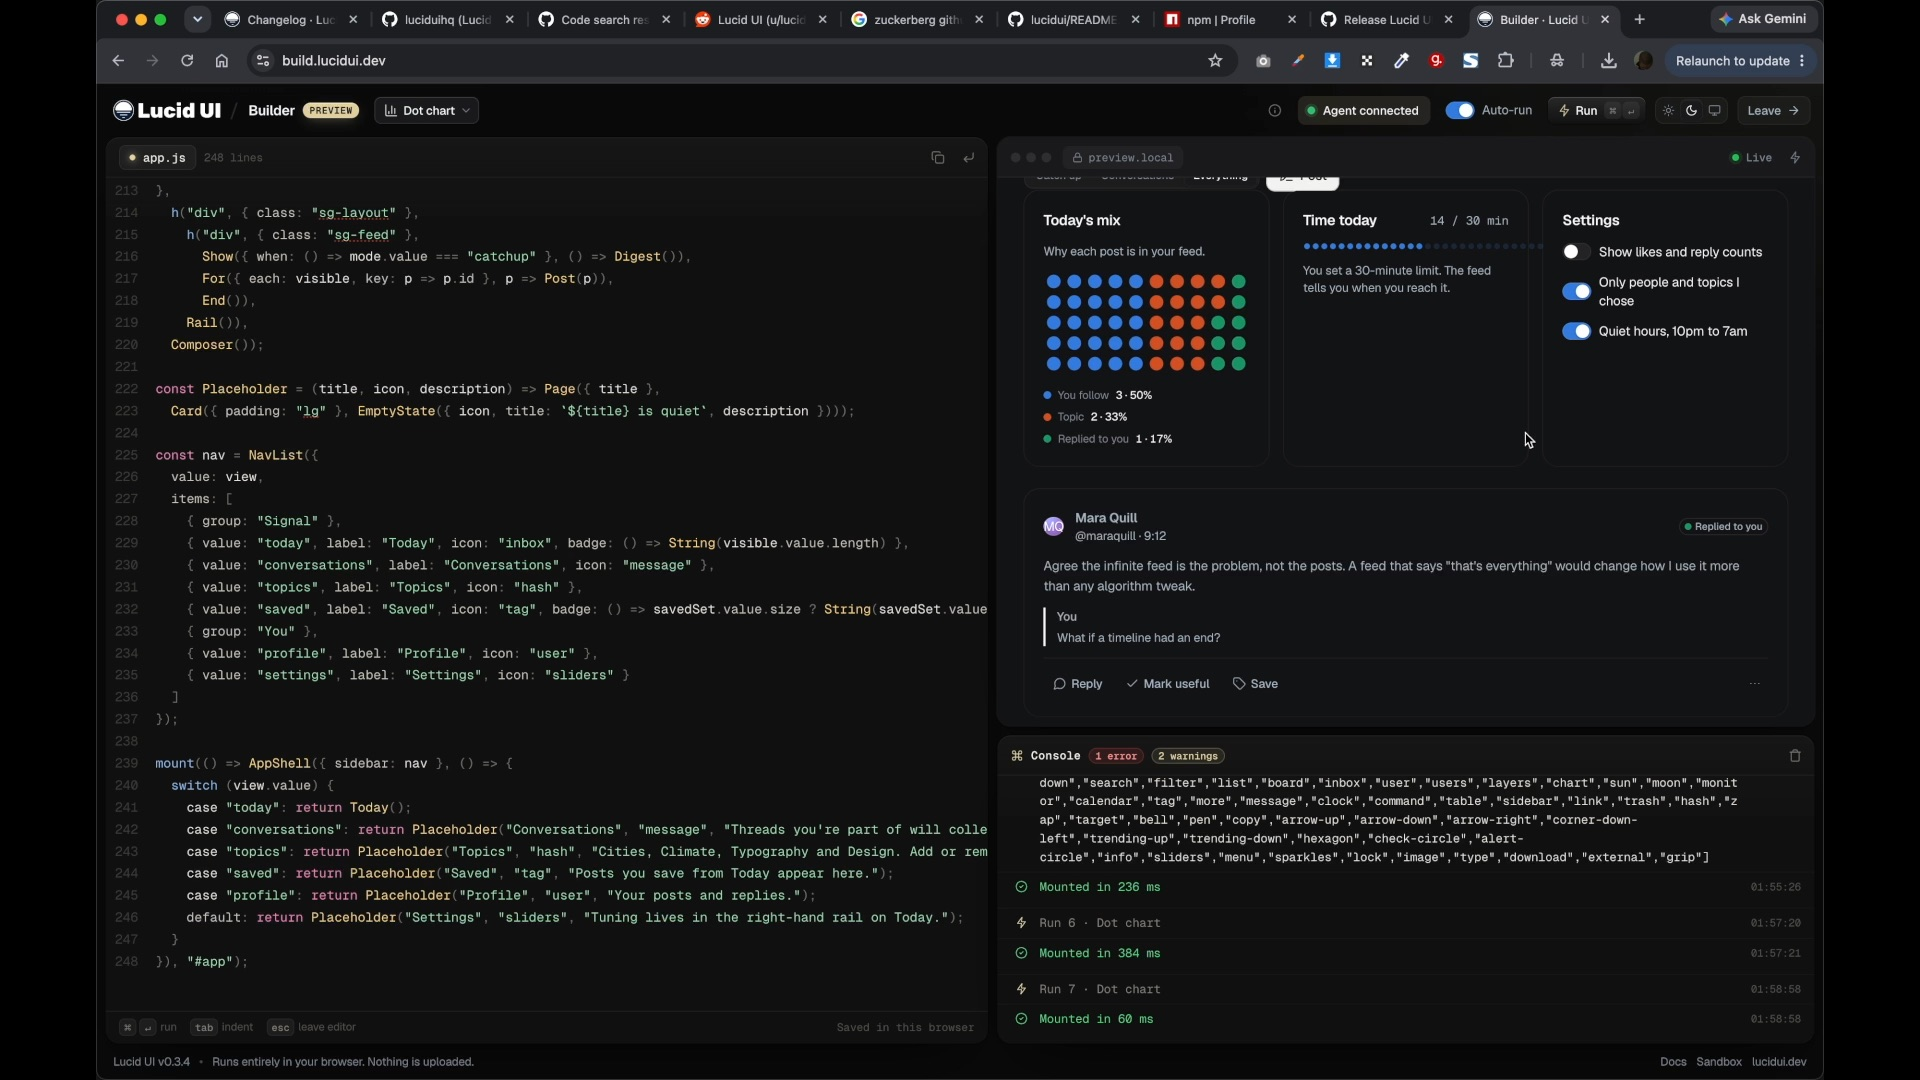
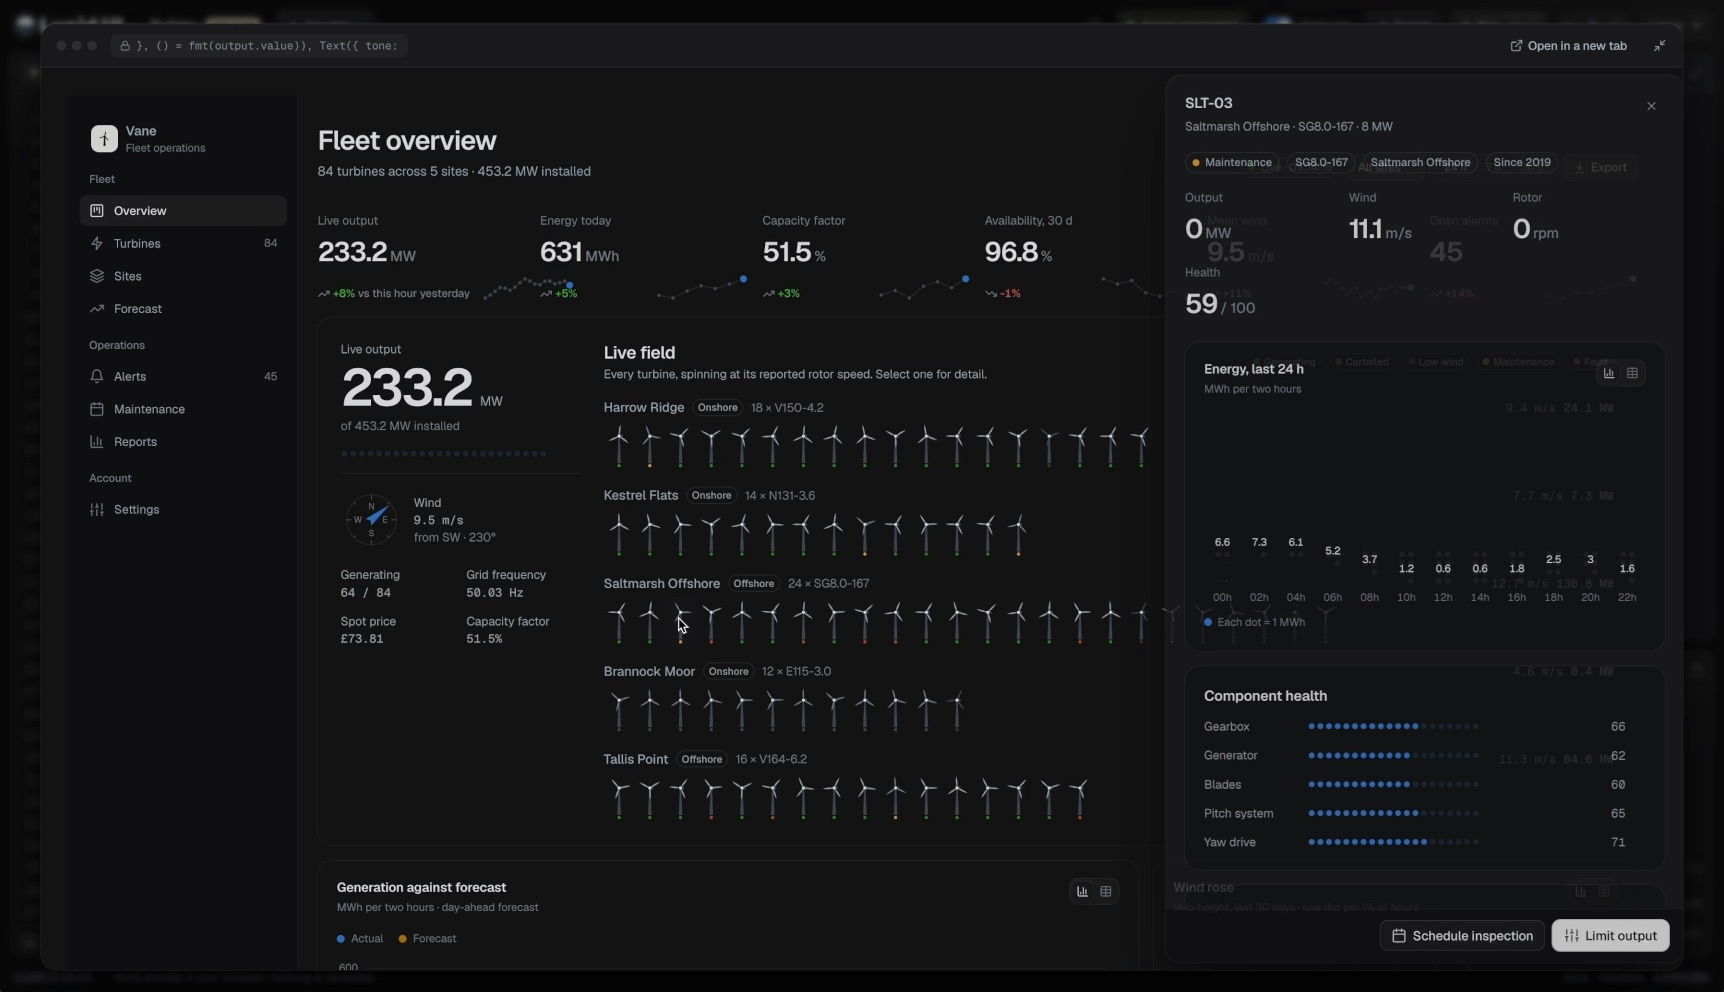
Homepage video: the new wind farm dashboard recording, cropped, with new chapters and poster

diff --git a/sites/www/home.js b/sites/www/home.js
@@ -253,10 +253,11 @@ const VIDEO = "/media/video/builder-agent.mp4";
 const POSTER = "/media/video/builder-agent-poster.jpg";
 const CHAPTERS = [
   [0, "Pairs with Builder"],
-  [8, "Asked to rethink an X feed"],
-  [16, "Builds it live"],
-  [40, "Tries the reply dialog"],
-  [48, "Reaches the end of the feed"]
+  [2, "Asked for a wind farm dashboard"],
+  [26, "The dashboard lands"],
+  [35, "Charts and the turbine table"],
+  [44, "Acknowledges alerts, with Undo"],
+  [52, "Filters to one site"]
 ];
 const clock = t => `${Math.floor(t / 60)}:${String(Math.floor(t % 60)).padStart(2, "0")}`;
 
@@ -281,8 +282,8 @@ function Watch() {
     h("div", { class: "site-wrap" },
       SectionHead({
         eyebrow: "see it work",
-        title: "Watch Claude build a feed, live.",
-        lead: "One prompt in Claude: rethink the X feed. It renders straight into Lucid Builder, reads every diagnostic Lucid sends back, and fixes its own code until the feed has an end.",
+        title: "Watch Claude build a dashboard, live.",
+        lead: "One prompt in Claude: a dashboard for a wind farm operator. It renders straight into Lucid Builder, reads every diagnostic Lucid sends back, and fixes its own code until Vane runs clean: live output, every turbine, alerts with Undo.",
         align: "center"
       }),
       h("div", { class: "watch-frame" },
@@ -293,11 +294,11 @@ function Watch() {
                 class: "watch-video", src: VIDEO, poster: POSTER, controls: true, playsinline: true, preload: "auto",
                 ref: el => { video = el; start(el); },
                 onTimeupdate: event => { now.value = event.target.currentTime; },
-                aria: { label: "Claude building a feed in Lucid Builder, 70 seconds" }
+                aria: { label: "Claude building a wind farm dashboard in Lucid Builder, 67 seconds" }
               })
-            : h("button", { type: "button", class: "watch-poster", aria: { label: "Play the 70-second video" }, onClick: () => play(0) },
+            : h("button", { type: "button", class: "watch-poster", aria: { label: "Play the 67-second video" }, onClick: () => play(0) },
                 h("img", { src: POSTER, alt: "", loading: "lazy", width: 1920, height: 1080 }),
-                h("span", { class: "watch-play" }, h("span", { class: "watch-play-icon", "aria-hidden": "true" }), h("span", { class: "watch-play-text" }, h("b", "Play"), h("small", "70 seconds · timelapse")))))),
+                h("span", { class: "watch-play" }, h("span", { class: "watch-play-icon", "aria-hidden": "true" }), h("span", { class: "watch-play-text" }, h("b", "Play"), h("small", "67 seconds")))))),
       h("ol", { class: "watch-chapters", aria: { label: "Chapters" } }, CHAPTERS.map(([t, label], i) => h("li",
         h("button", {
           type: "button", class: "watch-chapter",

diff --git a/sites/changelog/changelog.js b/sites/changelog/changelog.js
@@ -3,6 +3,7 @@ import { Badge } from "/lucid/ui/index.js";
 import { mountPage, SectionHead } from "/shared/chrome.js";
 
 const UPDATES = [
+  { date: "7 October 2026", area: "Site", kind: "Improved", title: "A new recording: Claude builds a wind farm dashboard", text: "The homepage video now shows Claude building Vane, a fleet dashboard for 84 turbines, live in Builder: output, charts, a wind rose, alerts with Undo and a site filter, in 67 seconds with new chapters." },
   { date: "7 October 2026", area: "Builder", kind: "New", title: "Full screen, and take your build with you", text: "A full-screen button on the preview shows your build at nearly the whole window (Shift Cmd F). A new Export menu also opens it in its own tab, or downloads it as an index.html that runs anywhere with Lucid UI from the CDN, or as app.js." },
   { date: "7 October 2026", area: "Builder", kind: "Improved", title: "Seven new starter templates", text: "A dashboard, a settings page, a task list with undo, a sign-up form with a success state, dialogs and toasts, a counter with a live trend, and a diagnostics tour where you break things on purpose and flip a switch to apply each fix." },
   { date: "7 October 2026", area: "Site", kind: "New", title: "Watch Claude build live", text: "A new section on the homepage plays a 70-second recording of Claude rethinking the X feed inside Builder, with chapters to jump between moments. The Builder guide and the agent guide link to it." },

diff --git a/sites/shared/site.css b/sites/shared/site.css
@@ -609,7 +609,7 @@ body.site { background: var(--lucid-surface); min-height: 100dvh; overflow-x: cl
 .watch-chrome { display: flex; align-items: center; gap: 7px; height: 38px; padding: 0 14px; background: #1d1d1b; box-shadow: inset 0 -1px 0 rgb(245 242 234 / .07); }
 .watch-chrome i { width: 10px; height: 10px; border-radius: 50%; background: rgb(245 242 234 / .16); }
 .watch-chrome span { margin-left: 12px; padding: 4px 12px; border-radius: 7px; font: 500 11.5px/1 var(--lucid-font-mono); color: rgb(245 242 234 / .55); background: rgb(245 242 234 / .06); }
-.watch-stage { position: relative; aspect-ratio: 16 / 9; background: #000; }
+.watch-stage { position: relative; aspect-ratio: 1724 / 992; background: #000; }
 .watch-video, .watch-poster, .watch-poster img { display: block; width: 100%; height: 100%; }
 .watch-video { background: #000; }
 .watch-poster { position: relative; padding: 0; border: 0; cursor: pointer; background: #000; }

diff --git a/sites/build/builder.js b/sites/build/builder.js
@@ -518,7 +518,7 @@ function GuideDialog() {
     way("03", "link", "Connect your coding agent", "Claude Code, Cursor and other agents can render straight into this tab, read the diagnostics and fix their own mistakes until the page is clean.",
       h("div", { class: "b-way-actions" },
         Button({ size: "sm", icon: "link", onClick: () => { close(); agentOpen.value = true; } }, "Connect an agent"),
-        Button({ size: "sm", variant: "ghost", icon: "monitor", href: "https://lucidui.dev/#watch", target: "_blank" }, "Watch it (70s)")))),
+        Button({ size: "sm", variant: "ghost", icon: "monitor", href: "https://lucidui.dev/#watch", target: "_blank" }, "Watch it (67s)")))),
   h("div", { class: "b-tips" },
     h("p", { class: "b-tips-title" }, "Good to know"),
     h("ul",

diff --git a/docs/AGENTS.md b/docs/AGENTS.md
@@ -1,6 +1,6 @@
 # Build with an AI agent
 
-[Watch Claude build a feed in Builder, in 70 seconds.](https://lucidui.dev/#watch)
+[Watch Claude build a wind farm dashboard in Builder, in 67 seconds.](https://lucidui.dev/#watch)
 
 Lucid UI is made to be written by AI coding agents as well as people. There are two ways to work with one: give it the docs and paste what it writes, or connect it to Builder so it renders, reads its own mistakes and fixes them while you watch.
 
